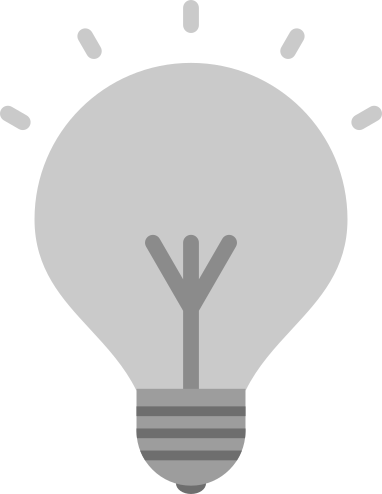
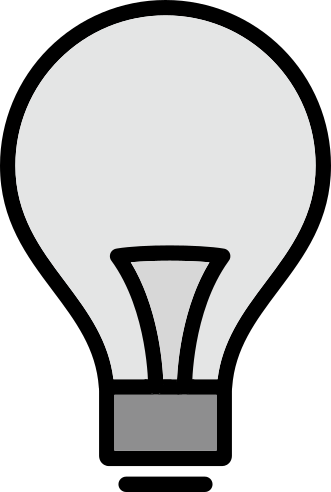
smooth image trasnition on dark/light mode transition

diff --git a/src/app/welcome/welcome.component.scss b/src/app/welcome/welcome.component.scss
@@ -1,3 +1,5 @@
+// TOGGLE BUTTON
+
 .switch {
     position: relative;
     display: block;
@@ -51,4 +53,26 @@ input:checked + .slider:before {
     border-top-left-radius: 50px;
     border-top-right-radius: 50px;
     transform: rotateZ(-45deg);
+}
+
+// TRANSITION BETWEEN LIGHTBULBS
+
+#crossfade {
+    position: relative;
+    height: 250px;
+    width: 400px;
+}
+
+#crossfade img {
+    position: absolute;
+    left: 0;
+    -webkit-transition: opacity 2s ease-in-out;
+    -moz-transition: opacity 2s ease-in-out;
+    -o-transition: opacity 2s ease-in-out;
+    -ms-transition: opacity 2s ease-in-out;    
+    transition: opacity 2s ease-in-out;
+}
+ 
+.transparent {
+    opacity: 0;
 }

diff --git a/src/app/welcome/welcome.component.ts b/src/app/welcome/welcome.component.ts
@@ -9,6 +9,7 @@ import { UiStyleToggleService } from '../services/ui-style-toggle.service';
 export class WelcomeComponent implements OnInit {
 
 	lightbulb: string;
+	darkTheme: boolean; 
 
 	constructor(
 		private uiStyleToggleService: UiStyleToggleService
@@ -24,6 +25,7 @@ export class WelcomeComponent implements OnInit {
 
 	changeLightbulb() {
 		this.uiStyleToggleService.theme$.subscribe(resp => {
+			this.darkTheme = resp !== 1;
 			this.lightbulb = resp === 1 ? './../../assets/bulb_light.png' : './../../assets/bulb_dark.png';
 		});
 	}

diff --git a/src/app/welcome/welcome.component.html b/src/app/welcome/welcome.component.html
@@ -1,8 +1,11 @@
-<img [src]="lightbulb" width="300px">
-
 <div>
     <label class="switch">
         <input type="checkbox" (click)="toggleTheme()">
         <span class="slider round"></span>
     </label>
+</div>
+
+<div id="crossfade">
+    <img class="bottom" src="../../assets/bulb_dark.png" width="250px"/>
+    <img class="top" [ngClass]="{'transparent' : darkTheme}" src="../../assets/bulb_light.png" width="250px"/>
 </div>
